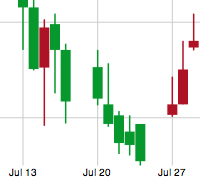
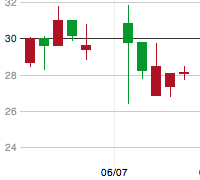
Polish candlestick example.

Changed region(s): [[0.0, 0.0, 1.0, 1.0], [0.99, 0.9444, 1.0, 0.9722]]

diff --git a/www/ex/candlestick-full.html b/www/ex/candlestick-full.html
@@ -1,14 +1,14 @@
 <html>
   <head>
-    <title>Candlestick</title>
+    <title>Candlestick Chart</title>
     <link type="text/css" rel="stylesheet" href="ex.css?3.2"/>
     <script type="text/javascript" src="../protovis-d3.2.js"></script>
     <script type="text/javascript" src="vix.js"></script>
     <style type="text/css">
 
 #fig {
-  width: 680px;
-  height: 500px;
+  width: 900px;
+  height: 220px;
 }
 
     </style>
@@ -21,8 +21,8 @@ var dateFormat = pv.Format.date("%d-%b-%y");
 vix.forEach(function(d) d.date = dateFormat.parse(d.date));
 
 /* Scales. */
-var w = 640,
-    h = 480,
+var w = 840,
+    h = 200,
     x = pv.Scale.linear(vix, function(d) d.date).range(0, w),
     y = pv.Scale.linear(vix, function(d) d.low, function(d) d.high).range(0, h).nice();
 
@@ -42,12 +42,13 @@ vis.add(pv.Rule)
 
 /* Prices. */
 vis.add(pv.Rule)
-     .data(y.ticks())
+     .data(y.ticks(7))
      .bottom(y)
      .left(-10)
      .right(-10)
-     .strokeStyle("#ccc")
+     .strokeStyle(function(d) d % 10 ? "#ccc" : "#333")
    .anchor("left").add(pv.Label)
+     .textStyle(function(d) d % 10 ? "#999" : "#333")
      .text(y.tickFormat);
 
 /* Candlestick. */
@@ -60,7 +61,7 @@ vis.add(pv.Rule)
   .add(pv.Rule)
     .bottom(function(d) y(Math.min(d.open, d.close)))
     .height(function(d) Math.abs(y(d.open) - y(d.close)))
-    .lineWidth(8);
+    .lineWidth(10);
 
 vis.render();
 
